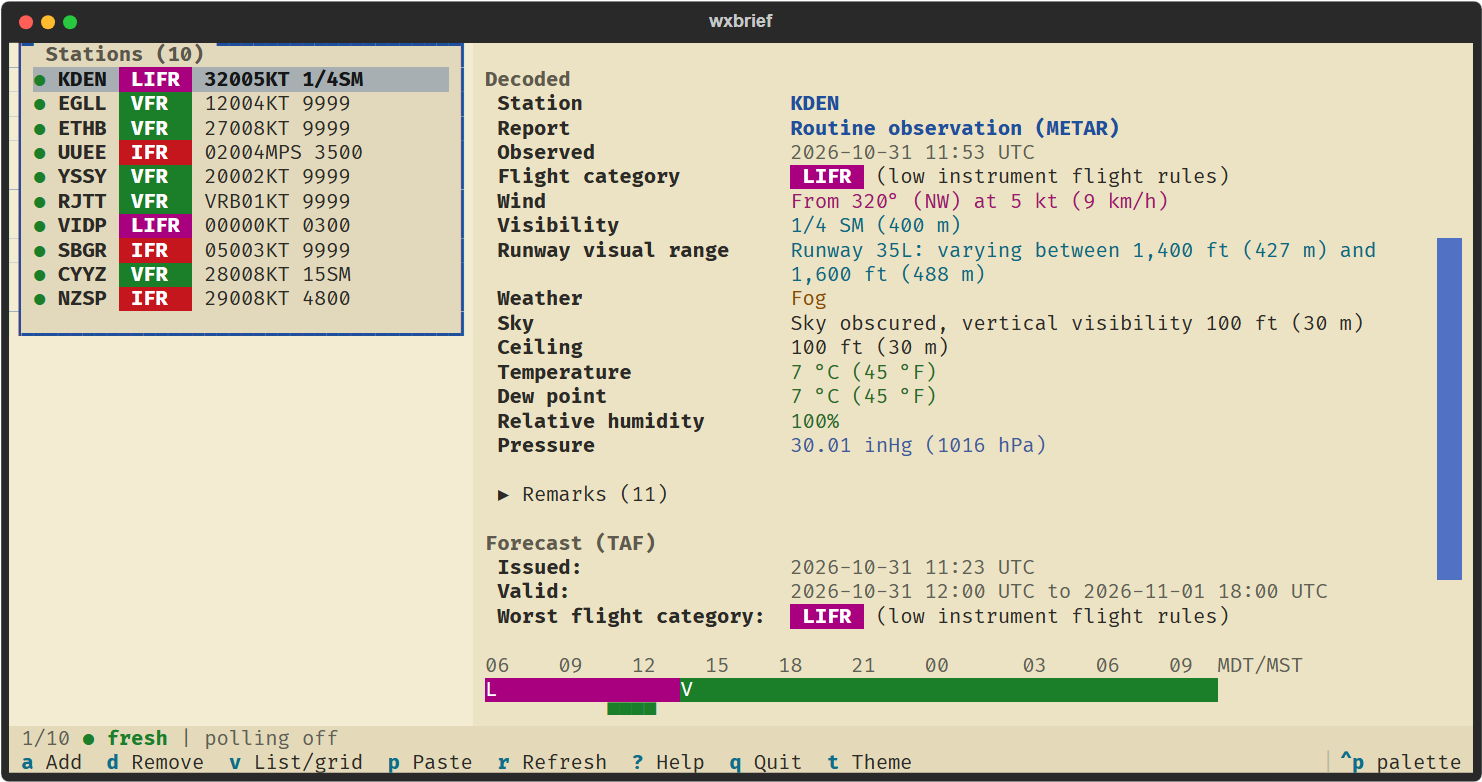
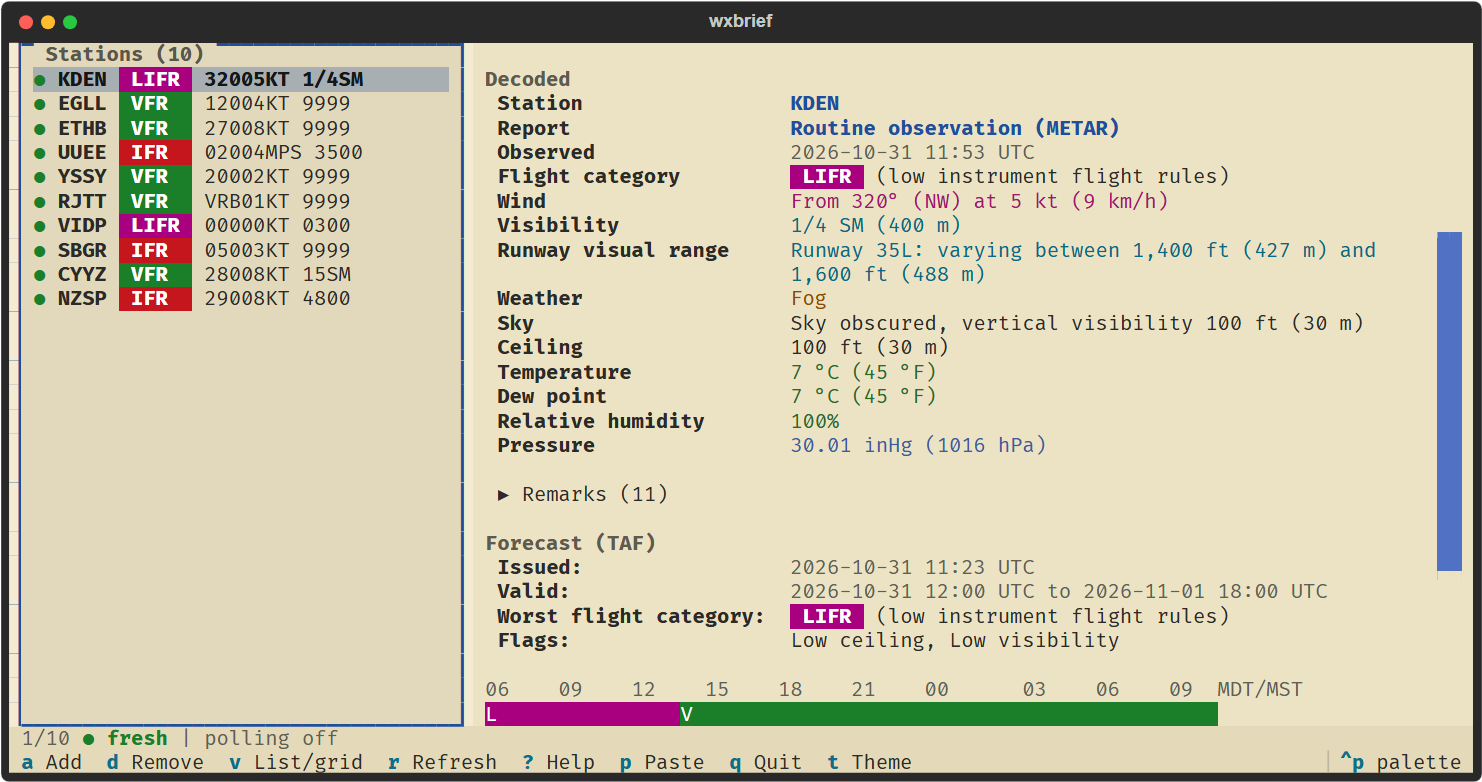
Prepare release 0.3.0: version, changelog, re-recorded screenshots and demo

diff --git a/wxbrief/__init__.py b/wxbrief/__init__.py
@@ -1,4 +1,4 @@
 """Terminal METAR/TAF briefing with colorways and plain-language translation."""
 
 # ZeroVer: 0.MINOR.PATCH, edited by hand. Keep in step with the matching CHANGELOG.md section and release tag.
-__version__ = "0.2.0"
+__version__ = "0.3.0"

diff --git a/CHANGELOG.md b/CHANGELOG.md
@@ -1,5 +1,33 @@
 # Changelog
 
+## 0.3.0 - 2026-10-31
+
+### Changed
+
+- Give a flight category or colour state only when ceiling, sky and visibility are known, and read `BLU+` as visibility 8 km or more with no low ceiling (#74, #139, #36)
+- Mark data as stale or offline, drop a held forecast the feed no longer lists, and keep open screens current after every poll (#77, #171, #181)
+- Re-use unchanged AWC responses with conditional requests so polling stays polite (#81)
+- Choose the sun or moon glyph from solar elevation, not a fixed clock window (#45)
+- Lead the decode of a cancelled TAF with the cancellation and drop its forecast groups (#184)
+- Show an expired TAF as expired, and keep it out of the `C` copy (#77, #190)
+- Simplify Settings to the four rows Enter changes, and show the copy confirmation as a one-row toast (#202)
+- Say "No report yet" for a station with no report, and show one line for it in `wxbrief get` (#147, #202)
+- Keep the hovered timeline hour a preview, and pin an hour only by click or key (#170)
+
+### Added
+
+- Add a "What wxbrief is not" notice to the README, `--help` and the help screen (#81)
+- Add a notice when the terminal is too small to lay out the screen (#73)
+- Add the TAF Flags row, with tornado, funnel cloud and squall flags, and the TAF decode warnings (#190)
+- Add an animated demo recorded from the real app to the README (#80)
+
+### Fixed
+
+- Fix wrapped, clipped and overlapping layouts at small terminal sizes (#73, #140, #169, #202)
+- Fix three TAF decoder and Discord edge cases, and wind, runway visual range, gust and cumulonimbus decoding (#34, #74, #139)
+- Fix the station list and grid not keeping the selected item in view after a resize (#170, #181)
+- Drop numeric admin codes from station regions (#147)
+
 ## 0.2.0 - 2026-10-31
 
 ### Changed

diff --git a/README.md b/README.md
@@ -13,7 +13,7 @@ switchable, and the text is available in English, Spanish, French, German and Po
 
 ![Station list on the left, the decoded METAR and the start of the TAF on the right](docs/img/briefing.png)
 
-Version 0.2.0. The project uses ZeroVer, so the version stays 0.x and anything may still change.
+Version 0.3.0. The project uses ZeroVer, so the version stays 0.x and anything may still change.
 
 ## What it does
 
@@ -44,10 +44,10 @@ There is no PyPI package. Each [release](https://github.com/WPTK/wxbrief/release
 
 | File | For |
 | --- | --- |
-| `wxbrief-0.2.0-windows-x86_64.exe` | Windows, no Python needed |
-| `wxbrief-0.2.0-linux-x86_64.tar.gz`, `wxbrief-0.2.0-linux-arm64.tar.gz` | Linux; the archive holds one `wxbrief` executable |
-| `wxbrief-0.2.0-macos-arm64.tar.gz`, `wxbrief-0.2.0-macos-x86_64.tar.gz` | macOS; the archive holds one `wxbrief` executable |
-| `wxbrief-0.2.0-py3-none-any.whl` | any platform with Python 3.12 or newer: `pip install wxbrief-0.2.0-py3-none-any.whl` |
+| `wxbrief-0.3.0-windows-x86_64.exe` | Windows, no Python needed |
+| `wxbrief-0.3.0-linux-x86_64.tar.gz`, `wxbrief-0.3.0-linux-arm64.tar.gz` | Linux; the archive holds one `wxbrief` executable |
+| `wxbrief-0.3.0-macos-arm64.tar.gz`, `wxbrief-0.3.0-macos-x86_64.tar.gz` | macOS; the archive holds one `wxbrief` executable |
+| `wxbrief-0.3.0-py3-none-any.whl` | any platform with Python 3.12 or newer: `pip install wxbrief-0.3.0-py3-none-any.whl` |
 | `SHA256SUMS` | checking the downloads; each file also has a build provenance attestation |
 
 To run from source instead, you need Python 3.12 or newer:
